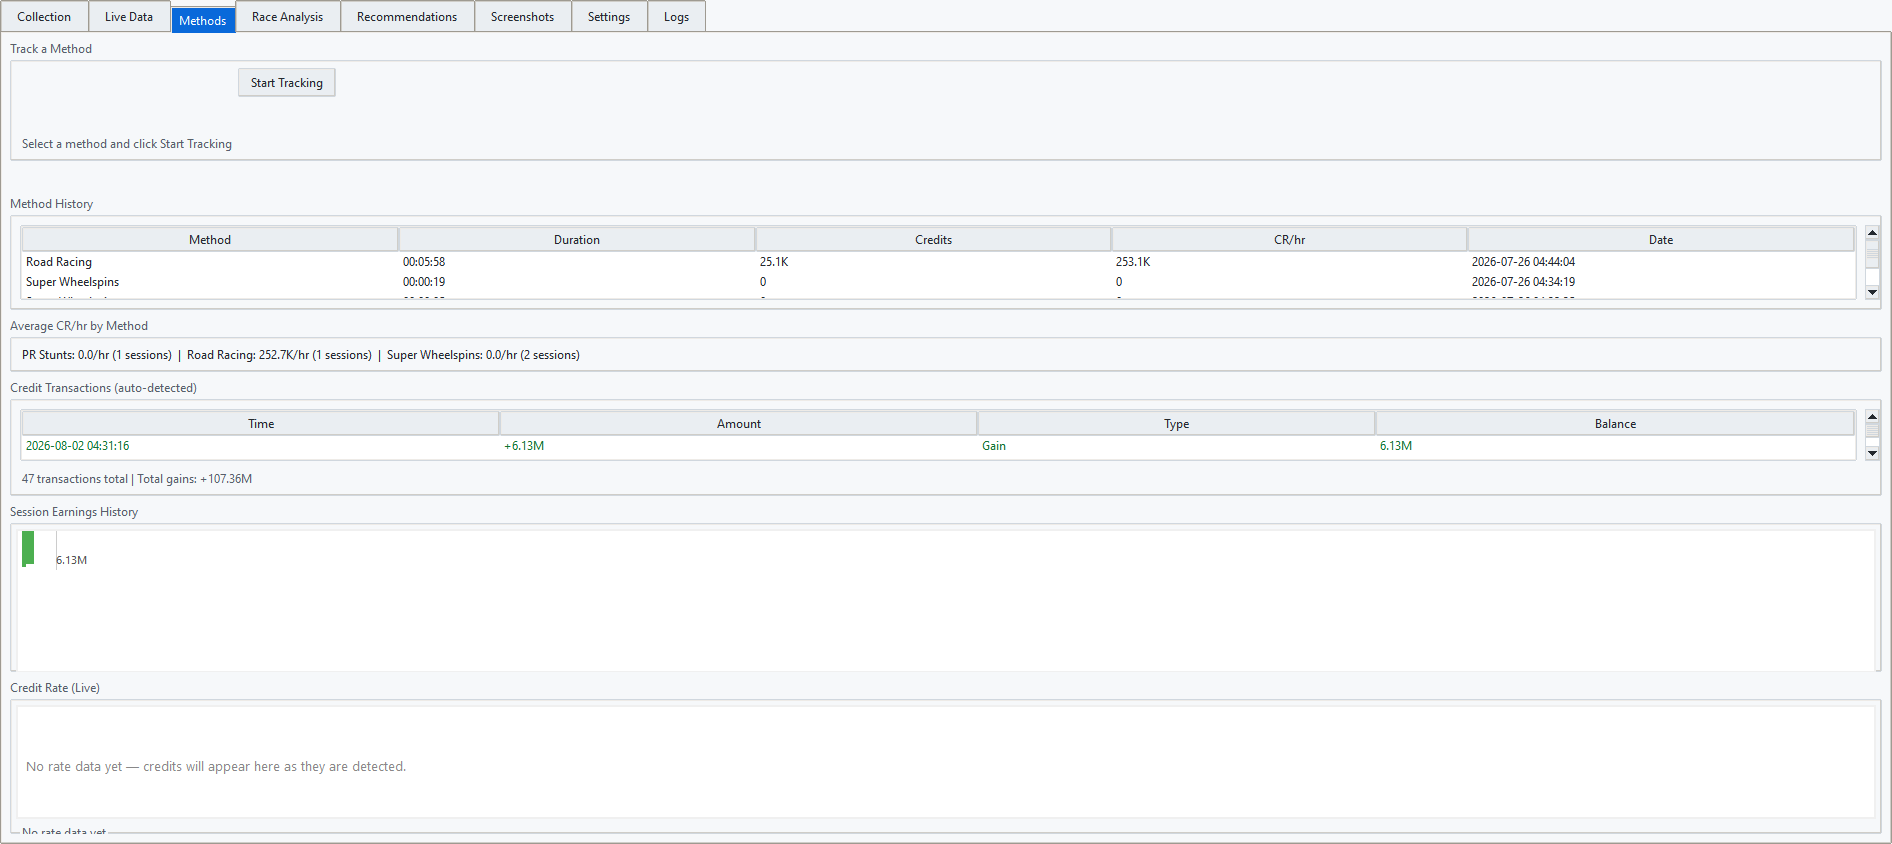
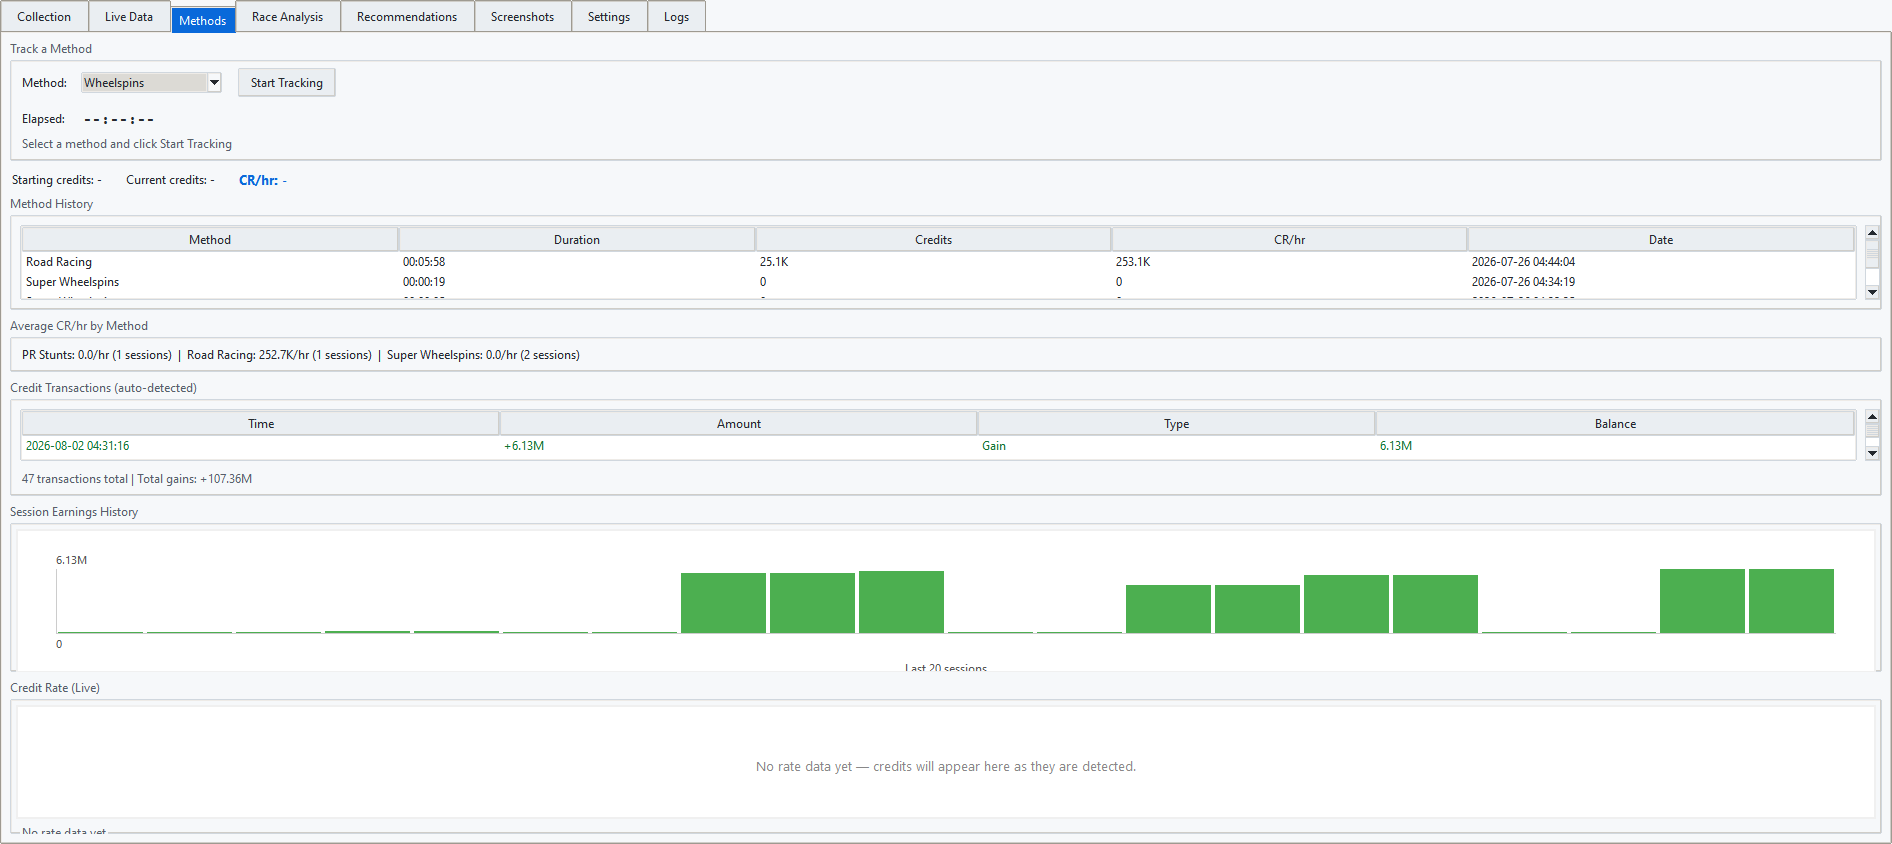
fix: move capture button to Screenshots tab, pump event loop so all tabs render in captures

diff --git a/fh6_gui.py b/fh6_gui.py
@@ -2475,12 +2475,6 @@ class FH6TrackerGUI(tk.Tk):
         if host not in DEV_HOSTS:
             self._view_feedback_btn.grid_remove()
 
-        self._capture_shot_btn = ttk.Button(update_frame, text="Capture Tab Screenshots",
-                                            command=self.capture_all_tab_screenshots)
-        self._capture_shot_btn.grid(row=3, column=0, columnspan=4, padx=8, pady=(0, 6), sticky="w")
-        if host not in DEV_HOSTS:
-            self._capture_shot_btn.grid_remove()
-
         if host in DEV_HOSTS:
             webhook_row = ttk.Frame(update_frame)
             webhook_row.grid(row=2, column=0, columnspan=4, sticky="ew", padx=8, pady=(0, 6))
@@ -2539,6 +2533,11 @@ class FH6TrackerGUI(tk.Tk):
         ttk.Label(header, textvariable=self.screenshots_count_var, style="Secondary.TLabel").grid(row=0, column=0, sticky="w")
         ttk.Button(header, text="Refresh", command=self.refresh_screenshots_panel).grid(row=0, column=1, padx=(8, 4))
         ttk.Button(header, text="Open Folder", command=lambda: os.startfile(SCREENSHOTS_DIR)).grid(row=0, column=2, padx=(4, 0))
+        # Dev-only tool: re-captures every tab for the GitHub README.
+        self._capture_shot_btn = ttk.Button(header, text="Capture Tabs", command=self.capture_all_tab_screenshots)
+        self._capture_shot_btn.grid(row=0, column=3, padx=(4, 0))
+        if os.environ.get("COMPUTERNAME", "") not in DEV_HOSTS:
+            self._capture_shot_btn.grid_remove()
 
         self.screenshots_canvas = tk.Canvas(self.screenshots_tab, highlightthickness=0)
         self.screenshots_canvas.grid(row=1, column=0, sticky="nsew", padx=8, pady=(0, 8))
@@ -2754,9 +2753,12 @@ class FH6TrackerGUI(tk.Tk):
                     refresher()
                 except Exception:
                     pass
-            self.update_idletasks()
-            time.sleep(1.2)
-            self.update_idletasks()
+            # Pump the event loop so the tab (and its child widgets) fully
+            # paint before we capture. A plain sleep() blocks redraws and
+            # leaves listboxes/canvases blank in the shot.
+            for _ in range(12):
+                self.update()
+                time.sleep(0.1)
             try:
                 shot = self._grab_widget(nb)
                 if shot is None and ImageGrab is not None:
